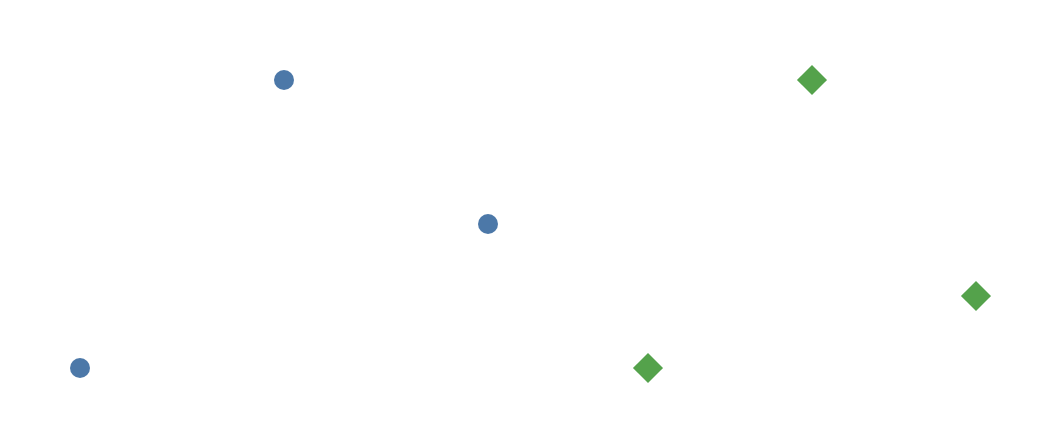
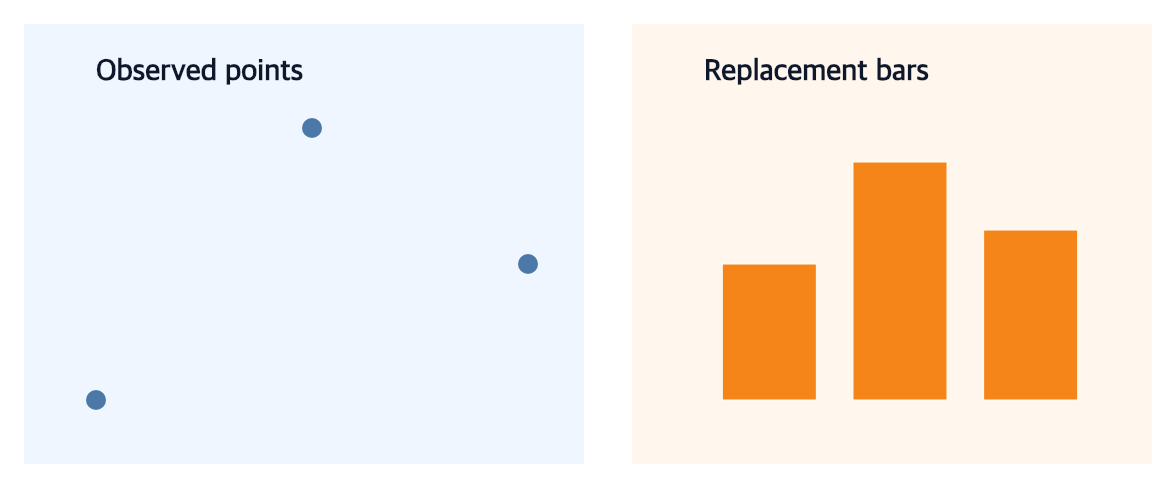
improve composition representative asset

diff --git a/test/charts/program-composition/primitive.program.js b/test/charts/program-composition/primitive.program.js
@@ -10,56 +10,72 @@ function encodedGraphicId(namespace, localId) {
 const mainCanvas = encodedGraphicId("dashboard-main", "canvas");
 const mainPlot = encodedGraphicId("dashboard-main", "plot-main");
 const mainPoint = encodedGraphicId("dashboard-main", "point");
+const mainTitle = encodedGraphicId("dashboard-main", "chartTitle");
 const detailCanvas = encodedGraphicId("dashboard-detail", "canvas");
 const detailPlot = encodedGraphicId("dashboard-detail", "plot-main");
-const detailPoint = encodedGraphicId("dashboard-detail", "point");
-const diamond = 7.519884823893;
-
-function diamondCommands(x, y) {
-  return [
-    { op: "M", x, y: y - diamond },
-    { op: "L", x: x + diamond, y },
-    { op: "L", x, y: y + diamond },
-    { op: "L", x: x - diamond, y },
-    { op: "Z" }
-  ];
-}
+const detailBar = encodedGraphicId("dashboard-detail", "bar");
+const detailTitle = encodedGraphicId("dashboard-detail", "chartTitle");
 
 export function createProgramCompositionPrimitives() {
   let program = chart()
     .createGraphics({ id: "canvas", type: "canvas" })
-    .editGraphics({ target: "canvas", property: "width", value: 528 })
-    .editGraphics({ target: "canvas", property: "height", value: 224 })
+    .editGraphics({ target: "canvas", property: "width", value: 588 })
+    .editGraphics({ target: "canvas", property: "height", value: 244 })
     .editGraphics({ target: "canvas", property: "background", value: "white" })
     .createGraphics({ id: mainCanvas, type: "canvas", parent: "canvas" })
-    .editGraphics({ target: mainCanvas, property: "width", value: 260 })
-    .editGraphics({ target: mainCanvas, property: "height", value: 200 })
-    .editGraphics({ target: mainCanvas, property: "background", value: "white" })
+    .editGraphics({ target: mainCanvas, property: "width", value: 280 })
+    .editGraphics({ target: mainCanvas, property: "height", value: 220 })
+    .editGraphics({ target: mainCanvas, property: "background", value: "#eff6ff" })
     .editGraphics({ target: mainCanvas, property: "x", value: 12 })
     .editGraphics({ target: mainCanvas, property: "y", value: 12 })
     .createGraphics({ id: mainPlot, type: "collection", parent: mainCanvas })
     .createGraphics({ id: mainPoint, type: "circle", length: 3, parent: mainPlot })
     .editGraphics({ target: mainPoint, property: "fill", value: "#4c78a8" })
-    .editGraphics({ target: mainPoint, property: "x", value: [28, 130, 232] })
-    .editGraphics({ target: mainPoint, property: "y", value: [172, 28, 100] })
+    .editGraphics({ target: mainPoint, property: "x", value: [36, 144, 252] })
+    .editGraphics({ target: mainPoint, property: "y", value: [188, 52, 120] })
     .editGraphics({ target: mainPoint, property: "radius", value: 5 })
-    .createGraphics({ id: detailCanvas, type: "canvas", parent: "canvas" });
-  program = program
-    .editGraphics({ target: detailCanvas, property: "width", value: 220 })
-    .editGraphics({ target: detailCanvas, property: "height", value: 200 })
-    .editGraphics({ target: detailCanvas, property: "background", value: "white" })
-    .editGraphics({ target: detailCanvas, property: "x", value: 296 })
+    .createGraphics({ id: mainTitle, type: "text", parent: mainCanvas })
+    .editGraphics({ target: mainTitle, property: "x", value: 36 })
+    .editGraphics({ target: mainTitle, property: "y", value: 23.5 })
+    .editGraphics({ target: mainTitle, property: "text", value: "Observed points" })
+    .editGraphics({ target: mainTitle, property: "fill", value: "#0f172a" })
+    .editGraphics({ target: mainTitle, property: "fontSize", value: 15 })
+    .editGraphics({ target: mainTitle, property: "fontFamily", value: "sans-serif" })
+    .editGraphics({ target: mainTitle, property: "fontWeight", value: 600 })
+    .editGraphics({ target: mainTitle, property: "textAlign", value: "left" })
+    .editGraphics({ target: mainTitle, property: "textBaseline", value: "middle" })
+    .createGraphics({ id: detailCanvas, type: "canvas", parent: "canvas" })
+    .editGraphics({ target: detailCanvas, property: "width", value: 260 })
+    .editGraphics({ target: detailCanvas, property: "height", value: 220 })
+    .editGraphics({ target: detailCanvas, property: "background", value: "#fff7ed" })
+    .editGraphics({ target: detailCanvas, property: "x", value: 316 })
     .editGraphics({ target: detailCanvas, property: "y", value: 12 })
     .createGraphics({ id: detailPlot, type: "collection", parent: detailCanvas })
-    .createGraphics({ id: detailPoint, type: "collection", parent: detailPlot })
+    .createGraphics({ id: detailBar, type: "rect", length: 3, parent: detailPlot })
     .editGraphics({
-      target: detailPoint,
-      property: "items",
-      value: [
-        { type: "path", properties: { commands: diamondCommands(28, 172), fill: "#54a24b" } },
-        { type: "path", properties: { commands: diamondCommands(110, 28), fill: "#54a24b" } },
-        { type: "path", properties: { commands: diamondCommands(192, 136), fill: "#54a24b" } }
-      ]
-    });
+      target: detailBar,
+      property: "x",
+      value: [45.14666666666666, 110.48, 175.81333333333333]
+    })
+    .editGraphics({ target: detailBar, property: "y", value: [120, 69, 103] })
+    .editGraphics({
+      target: detailBar,
+      property: "width",
+      value: 47.03999999999999
+    })
+    .editGraphics({ target: detailBar, property: "height", value: [68, 119, 85] })
+    .editGraphics({ target: detailBar, property: "fill", value: "#f58518" })
+    .editGraphics({ target: detailBar, property: "stroke", value: "white" })
+    .editGraphics({ target: detailBar, property: "strokeWidth", value: 0.5 })
+    .createGraphics({ id: detailTitle, type: "text", parent: detailCanvas })
+    .editGraphics({ target: detailTitle, property: "x", value: 36 })
+    .editGraphics({ target: detailTitle, property: "y", value: 23.5 })
+    .editGraphics({ target: detailTitle, property: "text", value: "Replacement bars" })
+    .editGraphics({ target: detailTitle, property: "fill", value: "#0f172a" })
+    .editGraphics({ target: detailTitle, property: "fontSize", value: 15 })
+    .editGraphics({ target: detailTitle, property: "fontFamily", value: "sans-serif" })
+    .editGraphics({ target: detailTitle, property: "fontWeight", value: 600 })
+    .editGraphics({ target: detailTitle, property: "textAlign", value: "left" })
+    .editGraphics({ target: detailTitle, property: "textBaseline", value: "middle" });
   return program;
 }

diff --git a/examples/program-composition/program.js b/examples/program-composition/program.js
@@ -2,7 +2,12 @@ import { chart, hconcat } from "../../src/index.js";
 
 function scatterPanel() {
   return chart()
-    .createCanvas({ width: 260, height: 200, margin: 28 })
+    .createCanvas({
+      width: 280,
+      height: 220,
+      margin: { top: 52, right: 28, bottom: 32, left: 36 },
+      background: "#eff6ff"
+    })
     .createData({ values: [
       { x: 1, y: 3 },
       { x: 2, y: 5 },
@@ -11,12 +16,32 @@ function scatterPanel() {
     .createPointMark({ fill: "#4c78a8" })
     .encodeX({ field: "x" })
     .encodeY({ field: "y" })
-    .encodeRadius({ value: 5 });
+    .encodeRadius({ value: 5 })
+    .createTitle({ text: "Observed points", titleStyle: { fontSize: 15 } });
 }
 
-function barPanel() {
+function placeholderPanel() {
   return chart()
-    .createCanvas({ width: 220, height: 180, margin: 28 })
+    .createCanvas({ width: 240, height: 220, margin: 36, background: "#f8fafc" })
+    .createData({ values: [
+      { x: 1, y: 4 },
+      { x: 2, y: 7 },
+      { x: 3, y: 5 }
+    ] })
+    .createPointMark({ fill: "#94a3b8" })
+    .encodeX({ field: "x" })
+    .encodeY({ field: "y" })
+    .encodeRadius({ value: 4 });
+}
+
+function replacementPanel() {
+  return chart()
+    .createCanvas({
+      width: 260,
+      height: 220,
+      margin: { top: 52, right: 28, bottom: 32, left: 36 },
+      background: "#fff7ed"
+    })
     .createData({ values: [
       { category: "A", value: 4 },
       { category: "B", value: 7 },
@@ -24,21 +49,8 @@ function barPanel() {
     ] })
     .createBarMark({ fill: "#f58518" })
     .encodeX({ field: "category", fieldType: "nominal" })
-    .encodeY({ field: "value" });
-}
-
-function replacementPanel() {
-  return chart()
-    .createCanvas({ width: 220, height: 200, margin: 28 })
-    .createData({ values: [
-      { x: 1, y: 2 },
-      { x: 2, y: 6 },
-      { x: 3, y: 3 }
-    ] })
-    .createPointMark({ fill: "#54a24b", shape: "diamond" })
-    .encodeX({ field: "x" })
-    .encodeY({ field: "y" })
-    .encodeRadius({ value: 6 });
+    .encodeY({ field: "value" })
+    .createTitle({ text: "Replacement bars", titleStyle: { fontSize: 15 } });
 }
 
 export function createProgramCompositionExample() {
@@ -46,7 +58,7 @@ export function createProgramCompositionExample() {
     id: "dashboard",
     programs: [
       { id: "main", program: scatterPanel() },
-      { id: "detail", program: barPanel() }
+      { id: "detail", program: placeholderPanel() }
     ]
   })
     .editCompositionLayout({ gap: 24, align: "start", padding: 12 })

diff --git a/test/docs/generated-images.test.js b/test/docs/generated-images.test.js
@@ -4,6 +4,8 @@ import path from "node:path";
 import test from "node:test";
 import { fileURLToPath } from "node:url";
 
+import { createCanvas, loadImage } from "@napi-rs/canvas";
+
 import {
   buildDocImageManifest,
   chartImages,
@@ -79,4 +81,46 @@ test("keeps generated mark-selection tutorial images canonical and fresh", () =>
   assert.match(tutorial, /filterMarks/);
   assert.match(tutorial, /selectMarks/);
   assert.match(tutorial, /highlightMarks/);
+});
+
+test("keeps the composition asset legible as two distinct child panels", async () => {
+  const definition = chartImages.find(chart => chart.id === "program-composition");
+  const program = definition.createProgram();
+  const childCanvases = program.graphicSpec.objects.canvas.children.map(
+    id => program.graphicSpec.objects[id]
+  );
+  assert.deepEqual(
+    childCanvases.map(canvas => canvas.properties.background),
+    ["#eff6ff", "#fff7ed"]
+  );
+  assert.deepEqual(
+    childCanvases.map(canvas => canvas.children
+      .map(id => program.graphicSpec.objects[id])
+      .find(graphic => graphic.type === "text")?.properties.text),
+    ["Observed points", "Replacement bars"]
+  );
+  assert.equal(
+    Object.values(program.graphicSpec.objects).some(graphic => graphic.type === "circle"),
+    true
+  );
+  assert.equal(
+    Object.values(program.graphicSpec.objects).some(graphic => graphic.type === "rect"),
+    true
+  );
+
+  const image = await loadImage(path.join(
+    root,
+    "docs/assets/images/program-composition.png"
+  ));
+  const canvas = createCanvas(image.width, image.height);
+  const context = canvas.getContext("2d");
+  context.drawImage(image, 0, 0);
+  const pixel = (x, y) => [...context.getImageData(x, y, 1, 1).data];
+  assert.deepEqual(pixel(30, 450), [239, 246, 255, 255]);
+  assert.deepEqual(pixel(1140, 450), [255, 247, 237, 255]);
+  assert.deepEqual(pixel(608, 244), [255, 255, 255, 255]);
+
+  const catalog = read("docs/_data/chart_examples.yml");
+  assert.match(catalog, /alt: Blue point panel and orange replacement bar panel/);
+  assert.match(catalog, /stable main slot retains points/);
 });

diff --git a/test/charts/program-composition/primitive.test.js b/test/charts/program-composition/primitive.test.js
@@ -6,10 +6,31 @@ import { createProgramCompositionPrimitives } from "./primitive.program.js";
 test("authors the composition example with concrete nested Canvas primitives", () => {
   const program = createProgramCompositionPrimitives();
   assert.deepEqual(program.graphicSpec.objects.canvas.properties, {
-    width: 528,
-    height: 224,
+    width: 588,
+    height: 244,
     background: "white"
   });
   assert.equal(program.graphicSpec.objects.canvas.children.length, 2);
   assert.equal(program.semanticSpec.layers.length, 0);
+  const childCanvases = program.graphicSpec.objects.canvas.children.map(
+    id => program.graphicSpec.objects[id]
+  );
+  assert.deepEqual(
+    childCanvases.map(canvas => canvas.properties.background),
+    ["#eff6ff", "#fff7ed"]
+  );
+  assert.deepEqual(
+    childCanvases.map(canvas => canvas.children
+      .map(id => program.graphicSpec.objects[id])
+      .find(graphic => graphic.type === "text")?.properties.text),
+    ["Observed points", "Replacement bars"]
+  );
+  assert.equal(
+    Object.values(program.graphicSpec.objects).some(graphic => graphic.type === "circle"),
+    true
+  );
+  assert.equal(
+    Object.values(program.graphicSpec.objects).some(graphic => graphic.type === "rect"),
+    true
+  );
 });

diff --git a/test/charts/program-composition/png.render.js b/test/charts/program-composition/png.render.js
@@ -13,12 +13,12 @@ registerVisualVariantTests([{
   .replaceCompositionChild({ target: "detail", program: replacement });`,
   primitive: createProgramCompositionPrimitives,
   userFacing: createProgramCompositionExample,
-  width: 528,
-  height: 224,
-  colors: ["#4c78a8", "#54a24b"],
+  width: 588,
+  height: 244,
+  colors: ["#eff6ff", "#fff7ed", "#4c78a8", "#f58518", "#0f172a"],
   regions: [
-    { name: "main", x: 12, y: 12, width: 260, height: 200 },
-    { name: "detail", x: 296, y: 12, width: 220, height: 200 }
+    { name: "main", x: 12, y: 12, width: 280, height: 220 },
+    { name: "detail", x: 316, y: 12, width: 260, height: 220 }
   ],
   artifact: false
 }]);

diff --git a/examples/registry.js b/examples/registry.js
@@ -77,8 +77,8 @@ export const PUBLIC_CHARTS = Object.freeze([
   example({
     id: "program-composition",
     data: "cars",
-    width: 528,
-    height: 224,
+    width: 588,
+    height: 244,
     createProgram: createProgramCompositionExample,
     docsGroup: "charts",
     browser: { path: "program-composition/", canvas: "#chart" }

diff --git a/test/contracts/graphic-hierarchy-migration.test.js b/test/contracts/graphic-hierarchy-migration.test.js
@@ -207,7 +207,7 @@ const EXPECTED_DRAW_ORDER = Object.freeze({
 });
 
 const EXPECTED_COMPOSITION_DRAW_LENGTH = Object.freeze({
-  "program-composition": 7,
+  "program-composition": 9,
   "cross-feature-dashboard": 52
 });
 

diff --git a/agent_docs/impl/roadmap3/phase11/STEP7.md b/agent_docs/impl/roadmap3/phase11/STEP7.md
@@ -2,12 +2,30 @@
 
 ## 진행 상태
 
-- [ ] Composition representative asset 기준선 확인
-- [ ] 두 child와 replacement slot을 식별할 수 있는 fixture 구현
-- [ ] Docs image와 thumbnail semantic/visual 회귀 추가
+- [x] Composition representative asset 기준선 확인
+- [x] 두 child와 replacement slot을 식별할 수 있는 fixture 구현
+- [x] Docs image와 thumbnail semantic/visual 회귀 추가
 - [ ] 전체 normal, coverage, package, browser, render와 docs 검증
 - [ ] Finding별 결과표, semver 영향과 재평가 우선순위 기록
 - [ ] Roadmap 3 Phase 11 closeout
 
 Composition runtime을 변경하지 않고 대표 program과 asset이 parent/child 구조를 전달하도록 개선한다. 마지막에는
 8개 finding을 fixed, partial 또는 blocked로 분류하고 exact 검증 명령과 다음 배포의 재평가 범위를 기록한다.
+
+## F-011 결과
+
+- 기존 asset이 runtime output과 byte-identical하지만 흰 parent/child 위에 sparse point 두 세트만 남기는 것을
+  확인했다. Composition materialization이나 renderer 손실이 아니라 최종 representative fixture 문제였다.
+- `main` stable slot은 파란 배경의 `Observed points` point chart를 유지한다. `detail` stable slot의 placeholder는
+  `replaceCompositionChild`로 주황 배경의 `Replacement bars` bar chart로 교체된다. 두 titled panel과 24px parent
+  gap이 full image와 thumbnail에서 모두 구분된다.
+- Primitive baseline도 같은 nested Canvas, point/rect grammar, title과 background를 low-level action chain으로
+  명시한다. Public/primitive `graphicSpec` exact equivalence와 composition runtime 계약은 유지된다.
+- Docs regression은 두 child background/title, circle/rect presence, full-image panel color와 흰 gap pixel,
+  gallery alt/caption을 함께 검사한다. 수동 원본 확인에서도 두 panel과 replacement 결과가 식별됐다.
+
+## F-011 focused 검증
+
+- `npm run test:charts -- chart:program-composition`: 2개 통과
+- `node scripts/run-tests.js render chart:program-composition`: 1개 통과
+- `npm run test:docs -- generated-images`: 3개 통과

diff --git a/docs/api/composition.md b/docs/api/composition.md
@@ -38,6 +38,13 @@ must each be a complete program with one materialized Canvas. See the
 [runnable repository example](https://github.com/hj-n/ggaction/tree/main/examples/program-composition)
 for complete child construction and Browser Canvas rendering.
 
+The representative output deliberately keeps two different final grammars:
+the `main` slot contains a titled point chart on a blue panel, while the
+`detail` slot contains the titled orange bar chart installed by
+`replaceCompositionChild`. Distinct child backgrounds and the visible parent
+gap make the retained slot, replacement slot, and parent layout observable in
+the full image and its gallery thumbnail.
+
 Both functions require at least two programs. A direct `ChartProgram` receives
 the deterministic slot name `view-1`, `view-2`, and so on. Use
 `{ id, program }` when later code must replace a stable slot.